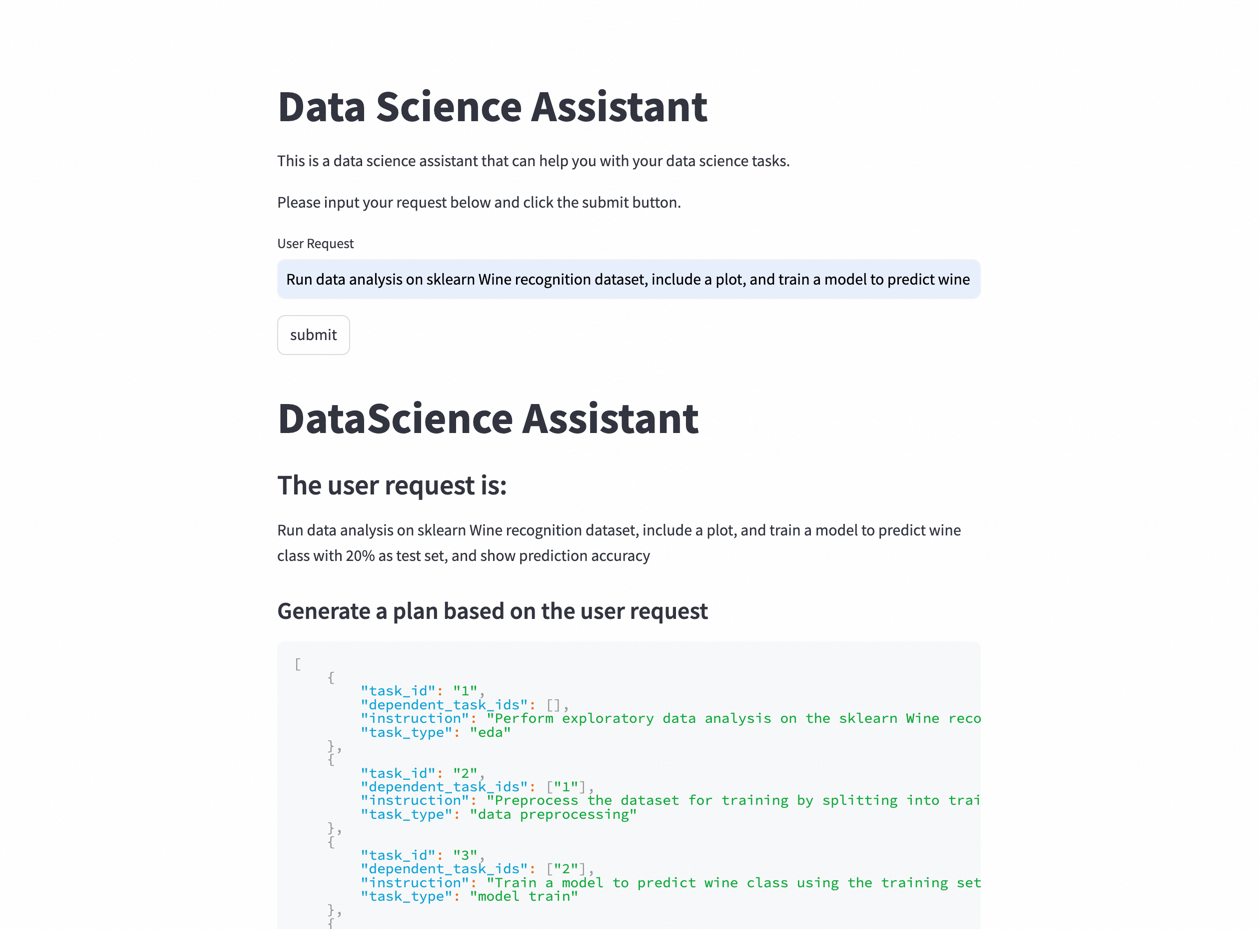
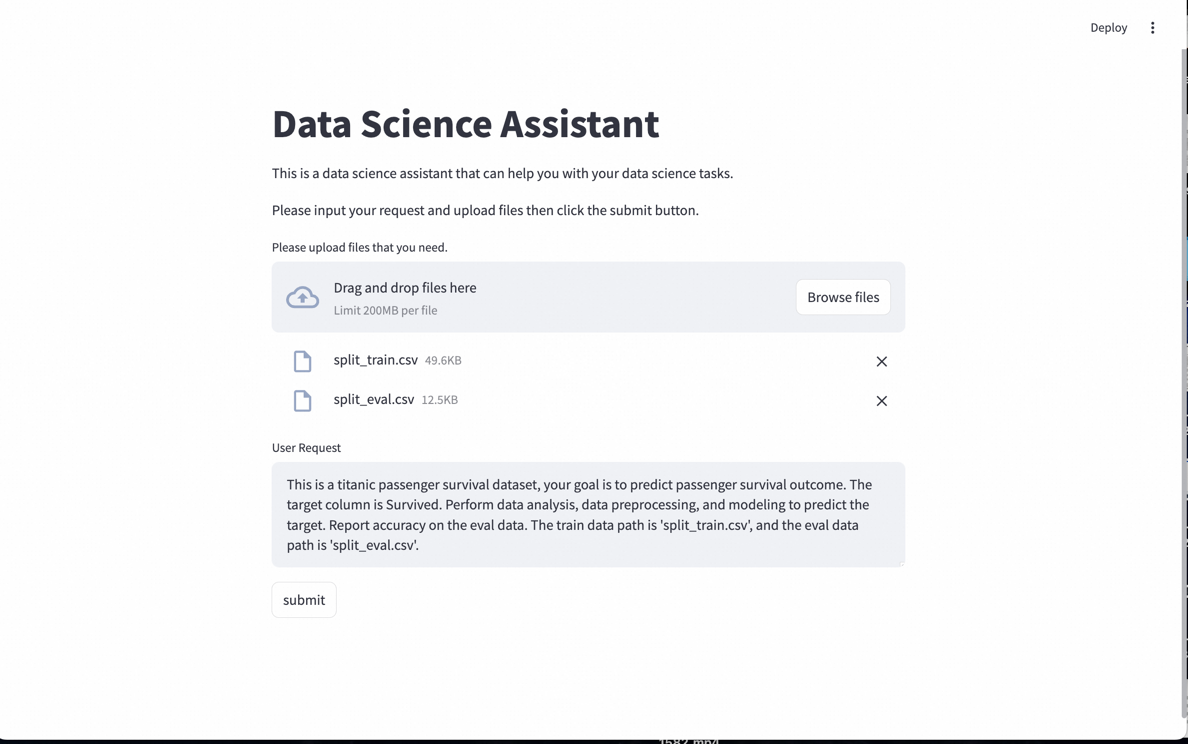
Feature/streamlit (#576)

diff --git a/apps/datascience_assistant/app.py b/apps/datascience_assistant/app.py
@@ -1,23 +1,45 @@
 import os
+import sys
 
 import streamlit as st
-from modelscope_agent.agents.data_science_assistant import DataScienceAssistant
-from modelscope_agent.tools.metagpt_tools.tool_recommend import \
-    TypeMatchToolRecommender
 
-llm_config = {
-    'model': 'qwen2-72b-instruct',
-    'model_server': 'dashscope',
-}
-os.environ['DASHSCOPE_API_KEY'] = input(
-    'Please input your dashscope api key: ')
-data_science_assistant = DataScienceAssistant(
-    llm=llm_config, tool_recommender=TypeMatchToolRecommender(tools=['<all>']))
-st.title('Data Science Assistant')
-st.write(
-    'This is a data science assistant that can help you with your data science tasks.'
-)
-st.write('Please input your request below and click the submit button.')
-user_request = st.text_input('User Request')
-if st.button('submit'):
-    data_science_assistant.run(user_request=user_request, streamlit=True)
+os.environ['DASHSCOPE_API_KEY'] = 'YOUR_API_KEY'
+
+
+def setup_project_paths():
+    current_dir = os.path.dirname(os.path.abspath(__file__))  # noqa
+    project_root_path = os.path.abspath(os.path.join(current_dir,
+                                                     '../../'))  # noqa
+    sys.path.append(project_root_path)  # noqa
+
+
+if __name__ == '__main__':
+    setup_project_paths()
+    from modelscope_agent.agents.data_science_assistant import \
+        DataScienceAssistant  # noqa
+    from modelscope_agent.tools.metagpt_tools.tool_recommend import \
+        TypeMatchToolRecommender  # noqa
+    st.title('Data Science Assistant')
+    st.write(
+        'This is a data science assistant that can help you with your data science tasks.'
+    )
+    st.write(
+        'Please input your request and upload files then click the submit button.'
+    )
+
+    files = st.file_uploader(
+        'Please upload files that you need. ', accept_multiple_files=True)
+    last_file_name = ''
+    user_request = st.text_area('User Request')
+    if st.button('submit'):
+        llm_config = {
+            'model': 'qwen2-72b-instruct',
+            'model_server': 'dashscope',
+        }
+        data_science_assistant = DataScienceAssistant(
+            llm=llm_config,
+            tool_recommender=TypeMatchToolRecommender(tools=['<all>']))
+        for file in files:
+            with open(file.name, 'wb') as f:
+                f.write(file.getbuffer())
+        data_science_assistant.run(user_request=user_request, streamlit=True)

diff --git a/apps/datascience_assistant/README.md b/apps/datascience_assistant/README.md
@@ -6,21 +6,27 @@ Detailed information can be found in the [documentation](../../docs/source/agent
 ## Quick Start
 Streamlit is a Python library that makes it easy to create and share beautiful, custom web apps for machine learning and data science.
 
-To run the DS Assistant in streamlit, you need to install the Streamlit library. You can install it using pip:
+To run the DS Assistant in streamlit, you need to install additional libraries. You can install it using pip:
 ```bash
-pip install streamlit streamlit-jupyter
+pip install streamlit mistune matplotlib nbconvert
 ```
-Then, you need to set
+
 Then, you can run the DS Assistant using the following command:
 ```bash
-streamlit run app.py
+cd ../../
+streamlit run ./apps/datascience_assistant/app.py
 ```
 
 After running the command, a new tab will open in your default web browser with the DS Assistant running.
-The following are screenshots of the DS Assistant running in the browser:
 
+you can upload your dataset and write your request.
 ![img_2.png](../../resources/data_science_assistant_streamlit_1.png)
-you can view all of the codes and  in streamlit
+
+After submitting your request, DS Assistant will automatically generate a plan for this request.
+![img_2.png](../../resources/data_science_assistant_streamlit_4.png)
+
+After that, DS Assistant will automatically excute every task, you can view all of the codes and details in streamlit
 ![img_3.png](../../resources/data_science_assistant_streamlit_2.png)
+
 After you have finished using the DS Assistant, you can directly convert the running process to a pdf
 ![img_5.png](../../resources/data_science_assistant_streamlit_3.png)
